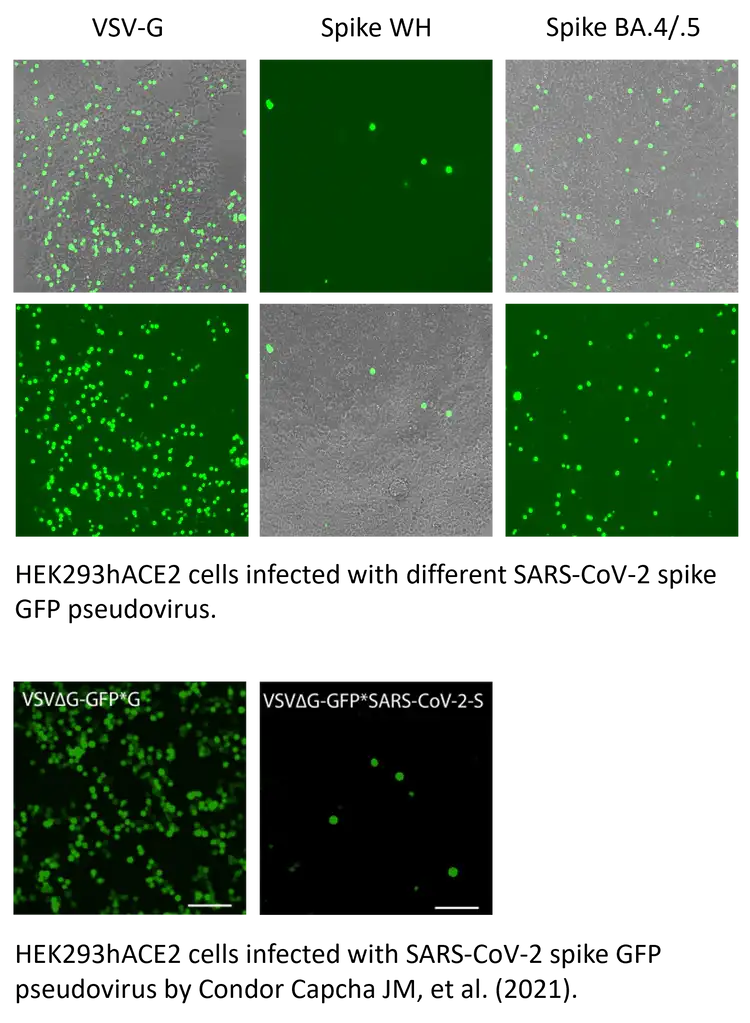
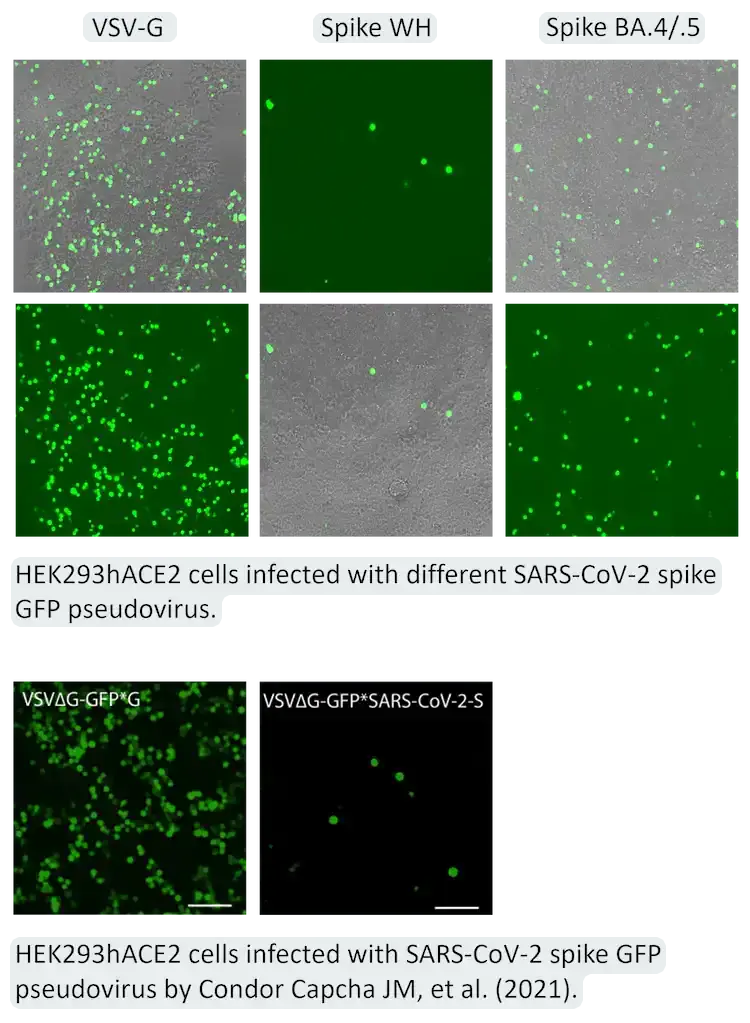
🚸 (sars-product): Add hardcoded background to text in some images
Remove the white outline, and instead add a white background for the
text directly in the images

diff --git a/_products/sars-cov-2-pseudovirus.md b/_products/sars-cov-2-pseudovirus.md
@@ -22,12 +22,10 @@ gallery:
     title: Image 2
   - image_path: /assets/images/products/sars-pseudovirus/image-3.webp
     url: /assets/images/products/sars-pseudovirus/image-3.webp
-    class: dark-theme-outline
     alt: Image 3
     title: Image 3
   - image_path: /assets/images/products/sars-pseudovirus/image-4.webp
     url: /assets/images/products/sars-pseudovirus/image-4.webp
-    class: dark-theme-outline
     alt: Image 4
     title: Image 4
 ---
